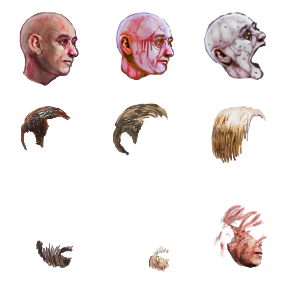
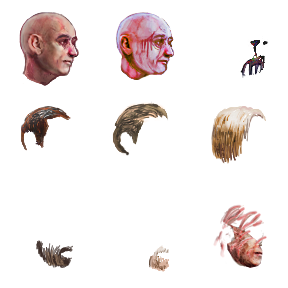
Implement husk sprite overlays as wearables. Add new husk injector (wip).

Changed region(s): [[0.6875, 0.0312, 0.9375, 0.2812]]

diff --git a/Barotrauma/BarotraumaShared/Source/Characters/CharacterInfo.cs b/Barotrauma/BarotraumaShared/Source/Characters/CharacterInfo.cs
@@ -462,7 +462,7 @@ namespace Barotrauma
         private List<XElement> faceAttachments;
 
         private IEnumerable<XElement> wearables;
-        private IEnumerable<XElement> Wearables
+        public IEnumerable<XElement> Wearables
         {
             get
             {
@@ -478,7 +478,18 @@ namespace Barotrauma
             }
         }
 
-        private IEnumerable<XElement> FilterElementsByGenderAndRace(IEnumerable<XElement> elements)
+        public IEnumerable<XElement> FilterByTypeAndHeadID(IEnumerable<XElement> elements, WearableType targetType)
+        {
+            return elements.Where(e =>
+            {
+                if (Enum.TryParse(e.GetAttributeString("type", ""), true, out WearableType type) && type != targetType) { return false; }
+                int headId = e.GetAttributeInt("headid", -1);
+                // if the head id is less than 1, the id is not valid and the condition is ignored.
+                return headId < 1 || headId == Head.HeadSpriteId;
+            });
+        }
+
+        public IEnumerable<XElement> FilterElementsByGenderAndRace(IEnumerable<XElement> elements)
         {
             if (elements == null) { return elements; }
             return elements.Where(w =>
@@ -667,17 +678,6 @@ namespace Barotrauma
                     var weights = GetWeights(filtered).ToList();
                     var element = ToolBox.SelectWeightedRandom(filtered, weights, Rand.RandSync.Server);
                     return element == null || element.Name == "Empty" ? null : element;
-                }
-
-                IEnumerable<XElement> FilterByTypeAndHeadID(IEnumerable<XElement> elements, WearableType targetType)
-                {
-                    return elements.Where(e =>
-                    {
-                        if (Enum.TryParse(e.GetAttributeString("type", ""), true, out WearableType type) && type != targetType) { return false; }
-                        int headId = e.GetAttributeInt("headid", -1);
-                        // if the head id is less than 1, the id is not valid and the condition is ignored.
-                        return headId < 1 || headId == Head.HeadSpriteId;
-                    });
                 }
 
                 bool IsWearableAllowed(XElement element)

diff --git a/Barotrauma/BarotraumaClient/Source/Characters/Limb.cs b/Barotrauma/BarotraumaClient/Source/Characters/Limb.cs
@@ -126,7 +126,20 @@ namespace Barotrauma
                 }
             }
         }
-        
+
+        public WearableSprite HuskSprite { get; private set; }
+
+        public void LoadHuskSprite()
+        {
+            var info = character.Info;
+            if (info == null) { return; }
+            var element = info.FilterByTypeAndHeadID(character.Info.FilterElementsByGenderAndRace(character.Info.Wearables), WearableType.Husk).FirstOrDefault();
+            if (element != null)
+            {
+                HuskSprite = new WearableSprite(element.Element("sprite"), WearableType.Husk);
+            }
+        }
+
         public float TextureScale => limbParams.Ragdoll.TextureScale;
 
         public Sprite DamagedSprite { get; private set; }
@@ -408,6 +421,11 @@ namespace Barotrauma
             SpriteEffects spriteEffect = (dir == Direction.Right) ? SpriteEffects.None : SpriteEffects.FlipHorizontally;
             if (onlyDrawable == null)
             {
+                if (HuskSprite != null && (character.SpeciesName == "Humanhusk" || (character.SpeciesName == "Human" &&
+                    character.CharacterHealth.GetAffliction<AfflictionHusk>("huskinfection")?.State == AfflictionHusk.InfectionState.Active)))
+                {
+                    DrawWearable(HuskSprite, depthStep, spriteBatch, color, spriteEffect);
+                }
                 foreach (WearableSprite wearable in OtherWearables)
                 {
                     DrawWearable(wearable, depthStep, spriteBatch, color, spriteEffect);
@@ -568,6 +586,9 @@ namespace Barotrauma
 
             OtherWearables?.ForEach(w => w.Sprite.Remove());
             OtherWearables = null;
+
+            HuskSprite?.Sprite.Remove();
+            HuskSprite = null;
         }
     }
 }

diff --git a/Barotrauma/BarotraumaShared/Source/Items/Components/Wearable.cs b/Barotrauma/BarotraumaShared/Source/Items/Components/Wearable.cs
@@ -15,7 +15,8 @@ namespace Barotrauma
         Beard,
         Moustache,
         FaceAttachment,
-        JobIndicator
+        JobIndicator,
+        Husk
     }
 
     class WearableSprite
@@ -86,7 +87,7 @@ namespace Barotrauma
         {
             Type = type;
             SourceElement = subElement;
-            SpritePath = subElement.Attribute("texture").Value;
+            SpritePath = subElement.GetAttributeString("texture", string.Empty);
             Init();
             switch (type)
             {
@@ -95,6 +96,7 @@ namespace Barotrauma
                 case WearableType.Moustache:
                 case WearableType.FaceAttachment:
                 case WearableType.JobIndicator:
+                case WearableType.Husk:
                     Limb = LimbType.Head;
                     HideLimb = false;
                     HideOtherWearables = false;

diff --git a/Barotrauma/BarotraumaShared/Source/Characters/Character.cs b/Barotrauma/BarotraumaShared/Source/Characters/Character.cs
@@ -823,6 +823,10 @@ namespace Barotrauma
             Info.MoustacheElement?.Elements("sprite").ForEach(s => head.OtherWearables.Add(new WearableSprite(s, WearableType.Moustache)));
             if (info.HairElement == null) { info.HairIndex = 0; }
             Info.HairElement?.Elements("sprite").ForEach(s => head.OtherWearables.Add(new WearableSprite(s, WearableType.Hair)));
+
+#if CLIENT
+            head.LoadHuskSprite();
+#endif
         }
 
         private static string humanConfigFile;

diff --git a/Barotrauma/BarotraumaShared/Source/Characters/Health/CharacterHealth.cs b/Barotrauma/BarotraumaShared/Source/Characters/Health/CharacterHealth.cs
@@ -257,6 +257,11 @@ namespace Barotrauma
             return null;
         }
 
+        public T GetAffliction<T>(string afflictionType, bool allowLimbAfflictions = true) where T : Affliction
+        {
+            return GetAffliction(afflictionType, allowLimbAfflictions) as T;
+        }
+
         public Affliction GetAffliction(string afflictionType, Limb limb)
         {
             foreach (Affliction affliction in limbHealths[limb.HealthIndex].Afflictions)

diff --git a/Barotrauma/BarotraumaClient/Source/DebugConsole.cs b/Barotrauma/BarotraumaClient/Source/DebugConsole.cs
@@ -1481,6 +1481,11 @@ namespace Barotrauma
                         wearable.Sprite.ReloadXML();
                         wearable.Sprite.ReloadTexture();
                     }
+                    if (limb.HuskSprite != null)
+                    {
+                        limb.HuskSprite.Sprite.ReloadXML();
+                        limb.HuskSprite.Sprite.ReloadTexture();
+                    }
                 }
             }, isCheat: true));
 
